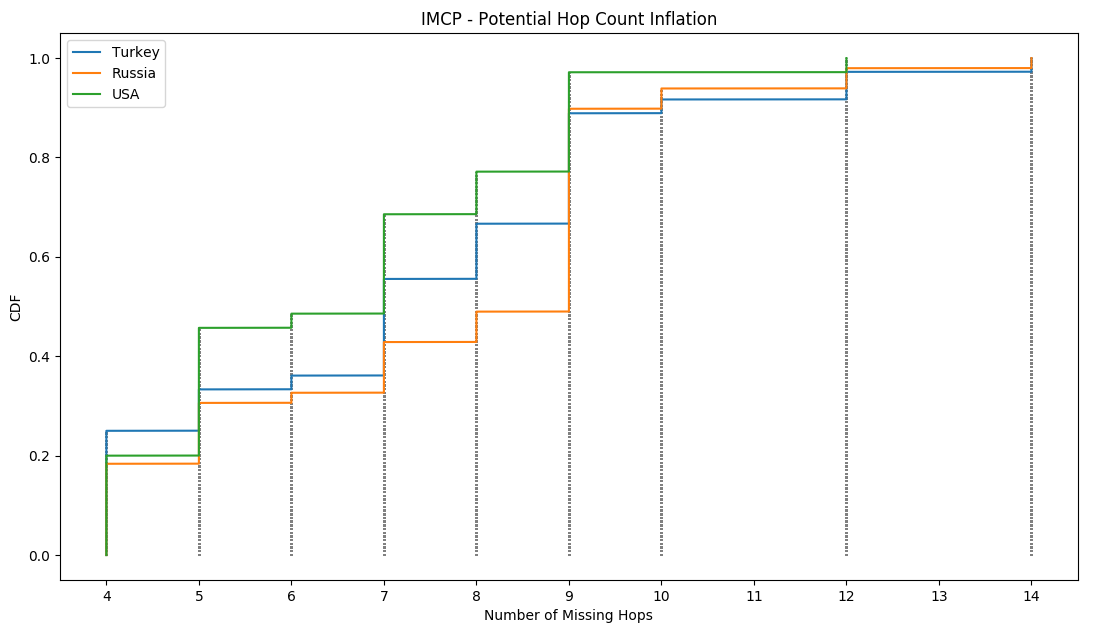
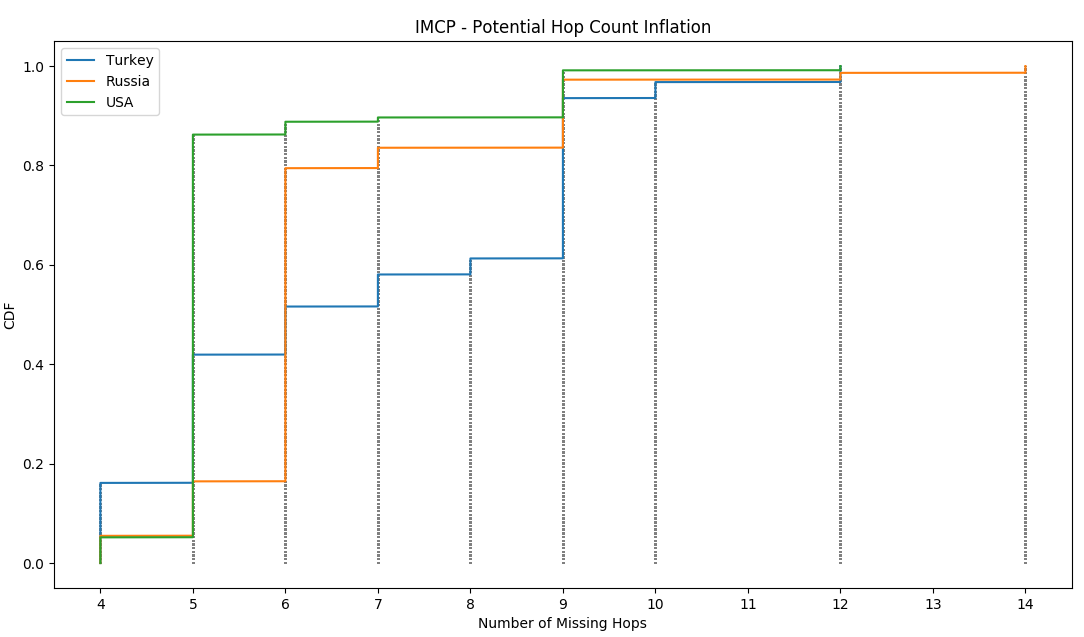
nameserver tables and graphs update

diff --git a/paper_latex/methodology.tex b/paper_latex/methodology.tex
@@ -180,9 +180,9 @@ From a high level view, the data shows that there were roughly half the number o
 While analyzing the IPs reachable from one or two vantage points, first major observation was that these IPs were reachable using traceroutes and not using ZMap. This is counter-intuitive because scamper's probes are under more restrictions compared to ZMap's probes (15 gap limit). The second major observation was that even for some cases even if the ICMP probes were not reaching the end host, the TCP probes were reaching the end host. Specifically in case of russian vantage point, in which the TCP packets were getting intercepted by a server close by (6th hop from the VP) and the ICMP probes were reaching on average thirteen hops before getting lost in the abyss. 
 
 \subsection{Inflated Paths - Missing hops}
-Figure~\ref{fig:inflated-path-cdf} shows the distribution of inflated paths for ICMP traceroutes that appear complete (we can reach server in question), but responses between hops are missing. The analysis has been carried on the list of webservers that were common for all vantage points.
+Figure~\ref{fig:inflated-path-cdf} shows the distribution of inflated paths for ICMP traceroutes that appear complete (we can reach server in question), but responses between hops are missing. The analysis has been carried on the list of nameservers that were common for all vantage points.
 
-The results significantly vary among the vantage points due to the differences in path length in reaching the same server. For example, if a webserver 'X' is 8 hops away from our vantage point in Russia and 12 hops away from our vantage point in USA. And an IDS is situated on path to the server which does not allow packets with lower than 14 ttl value to pass, then traceroute from Russia  will have 6 missing hops whereas traceroute from USA will have 2 missing hop, for the same webserver. This variance in path length is contributing towards the variation in CDF across vantage points.
+The results significantly vary among the vantage points due to the differences in path length in reaching the same server. For example, if a nameserver 'X' is 8 hops away from our vantage point in Russia and 12 hops away from our vantage point in USA. And an IDS is situated on path to the server which does not allow packets with lower than 14 ttl value to pass, then traceroute from Russia  will have 6 missing hops whereas traceroute from USA will have 2 missing hop, for the same nameserver. This variance in path length is contributing towards the variation in CDF across vantage points.
 
 
 \newpage
@@ -190,30 +190,29 @@ The results significantly vary among the vantage points due to the differences i
 \begin{table*}
 \small
 
-    \caption*{Started with a random sample of
-        Alexa 1000. Filtered down to the set that have the same webservers from all vantage points resulting in n = Y. Further filtered down the set of webservers for which the server in question replied, for all protocols, resulting in $Z_{i}$, specific to each vantage point.\\ \textit{Protocol A-Protocol B} column label represents the number of traceroutes which have same path length, in Y, for both protocol A and protocol B traceroutes for same webserver.\\ \textbf{Y=565}. The following tables are for 64 tll hop limit and 15 hop gap limit.}
-    \caption {Same Path Length}
+    \caption {Path Length Analysis}
     \begin{center}
 
-    \begin{tabular}{|l|r|r|r|r|} \hline
+    \begin{tabular}{|l|r|r|r|r|r|} \hline
         \multirow{2}*{Vantage Point} &
-        \multicolumn{4}{c|}{Common Webservers across VPs - Path Length Analysis (Y)}
-         \\ \cline{2-5}
-        & ICMP-TCP &
-          HTTP-TCP &
-          ICMP-HTTP &
-          ICMP-HTTP-TCP\\ \hline
+        \multicolumn{5}{c|}{Common Nameservers across VPs (Y)}
+         \\ \cline{2-6}
+        & Same Length &
+          One Hop Difference &
+          Two Hop Difference &
+          Three Hop Difference &
+          > Three Difference\\ \hline
                         
-        Russia ($Z_{r}$=340)
-        & 241 & 270 & 199 & 197   
+        Russia ($Z_{r}$=15)
+        & 15 & 0 & 0 & 0 & 0
              \\ \hline
 
-        Turkey ($Z_{t}$=345)
-        & 270 & 283 & 232 & 229 
+        Turkey ($Z_{t}$=15)
+        & 11 & 2 & 1 & 0 & 0
              \\ \hline
 
-        USA ($Z_{u}$=345) 
-        & 275 & 303 & 244 & 242 
+        USA ($Z_{u}$=15) 
+        & 10 & 4 & 1 & 0 & 0
              \\ \hline
 
     \end{tabular}
@@ -221,113 +220,115 @@ The results significantly vary among the vantage points due to the differences i
     \label{tab:samepathvalidation}
 
     \end{center}
+        \caption*{Started with a random sample of
+        Alexa 1000. Filtered down to the set that have the same nameservers from all vantage points resulting in n = Y. Further filtered down the set of nameservers for which the server in question replied, for both udp and icmp, resulting in $Z_{i}$, specific to each vantage point.\\ \textbf{Y=520}. The following tables are for 64 tll hop limit and 15 hop gap limit.\\ \textbf{495} common nameservers did not send a response for udp-traceroute.}
 \end{table*}
 
-\begin{table*}
-\small
-    \caption {One Hop Difference}
-    \begin{center}
+% \begin{table*}
+% \small
+%     \caption {One Hop Difference}
+%     \begin{center}
 
-    \begin{tabular}{|l|r|r|r|r|} \hline
-        \multirow{2}*{Vantage Point} &
-        \multicolumn{4}{c|}{Common Webservers across VPs - Path Length Analysis (Y)}
-         \\ \cline{2-5}
-        & ICMP-TCP &
-          HTTP-TCP &
-          ICMP-HTTP &
-          ICMP-HTTP-TCP\\\hline
+%     \begin{tabular}{|l|r|r|r|r|} \hline
+%         \multirow{2}*{Vantage Point} &
+%         \multicolumn{4}{c|}{Common Webservers across VPs - Path Length Analysis (Y)}
+%          \\ \cline{2-5}
+%         & ICMP-TCP &
+%           HTTP-TCP &
+%           ICMP-HTTP &
+%           ICMP-HTTP-TCP\\\hline
                         
-        Russia ($Z_{r}$=340)
-        & 34 & 22 & 42 & X
-             \\ \hline
+%         Russia ($Z_{r}$=340)
+%         & 34 & 22 & 42 & X
+%              \\ \hline
 
-        Turkey ($Z_{t}$=345)
-        & 43 & 15 & 39 & X
-             \\ \hline
+%         Turkey ($Z_{t}$=345)
+%         & 43 & 15 & 39 & X
+%              \\ \hline
 
-        USA ($Z_{u}$=345) 
-        & 50 & 18 & 60 & X
-             \\ \hline
-    \end{tabular}
-    \end{center}
-\end{table*}
+%         USA ($Z_{u}$=345) 
+%         & 50 & 18 & 60 & X
+%              \\ \hline
+%     \end{tabular}
+%     \end{center}
+% \end{table*}
 
-\begin{table*}
-\small
-    \caption {Two Hop Difference}
-    \begin{center}
+% \begin{table*}
+% \small
+%     \caption {Two Hop Difference}
+%     \begin{center}
 
-    \begin{tabular}{|l|r|r|r|r|} \hline
-        \multirow{2}*{Vantage Point} &
-        \multicolumn{4}{c|}{Common Webservers across VPs - Path Length Analysis (Y)}
-         \\ \cline{2-5}
-        & ICMP-TCP &
-          HTTP-TCP &
-          ICMP-HTTP &
-          ICMP-HTTP-TCP\\ \hline
+%     \begin{tabular}{|l|r|r|r|r|} \hline
+%         \multirow{2}*{Vantage Point} &
+%         \multicolumn{4}{c|}{Common Webservers across VPs - Path Length Analysis (Y)}
+%          \\ \cline{2-5}
+%         & ICMP-TCP &
+%           HTTP-TCP &
+%           ICMP-HTTP &
+%           ICMP-HTTP-TCP\\ \hline
                         
-        Russia ($Z_{r}$=340)
-        & 29 & 4 & 29 & X   
-             \\ \hline
+%         Russia ($Z_{r}$=340)
+%         & 29 & 4 & 29 & X   
+%              \\ \hline
 
-        Turkey ($Z_{t}$=345)
-        & 12 & 4 & 14 & X
-             \\ \hline
+%         Turkey ($Z_{t}$=345)
+%         & 12 & 4 & 14 & X
+%              \\ \hline
 
-        USA ($Z_{u}$=345) 
-        & 10 & 5 & 11 & X 
-             \\ \hline
+%         USA ($Z_{u}$=345) 
+%         & 10 & 5 & 11 & X 
+%              \\ \hline
 
-    \end{tabular}
-    \end{center}
-\end{table*}
+%     \end{tabular}
+%     \end{center}
+% \end{table*}
 
-\begin{table*}
-\small
-    \caption {Three Hop Difference}
-    \begin{center}
+% \begin{table*}
+% \small
+%     \caption {Three Hop Difference}
+%     \begin{center}
 
-    \begin{tabular}{|l|r|r|r|r|} \hline
-        \multirow{2}*{Vantage Point} &
-        \multicolumn{4}{c|}{Common Webservers across VPs - Path Length Analysis (Y)}
-         \\ \cline{2-5}
-        & ICMP-TCP &
-          HTTP-TCP &
-          ICMP-HTTP &
-          ICMP-HTTP-TCP\\ \hline
+%     \begin{tabular}{|l|r|r|r|r|} \hline
+%         \multirow{2}*{Vantage Point} &
+%         \multicolumn{4}{c|}{Common Webservers across VPs - Path Length Analysis (Y)}
+%          \\ \cline{2-5}
+%         & ICMP-TCP &
+%           HTTP-TCP &
+%           ICMP-HTTP &
+%           ICMP-HTTP-TCP\\ \hline
                         
-        Russia ($Z_{r}$=340)
-        & 20 & 1 & 16 & X   
-             \\ \hline
+%         Russia ($Z_{r}$=340)
+%         & 20 & 1 & 16 & X   
+%              \\ \hline
 
-        Turkey ($Z_{t}$=345)
-        & 6 & 1 & 5 & X
-             \\ \hline
+%         Turkey ($Z_{t}$=345)
+%         & 6 & 1 & 5 & X
+%              \\ \hline
 
-        USA ($Z_{u}$=345) 
-        & 2 & 0 & 3 & X 
-             \\ \hline
+%         USA ($Z_{u}$=345) 
+%         & 2 & 0 & 3 & X 
+%              \\ \hline
 
-    \end{tabular}
-    \end{center}
-\end{table*}
+%     \end{tabular}
+%     \end{center}
+% \end{table*}
 
 
 \begin{figure*}[!h]
 \centering
   \includegraphics[width=\linewidth]{figures/missing-hops-cdf.png}
-  \caption{Distribution of path length inflation at \textit{n} non-responding hops for 565 common webservers across all vantage points. Following is the breakdown of number of webservers for each vantage point:}
+  \caption{Distribution of path length inflation at \textit{n} non-responding hops for 520 common nameservers across all vantage points. Following is the breakdown of number of nameservers for each vantage point:}
   \label{fig:inflated-path-cdf}
   
-  US = 35\\
-  Turkey = 36\\
-  Russia = 49\\
+  US = 116\\
+  Turkey = 31\\
+  Russia = 73\\
   
 \end{figure*}
 
 \begin{figure*}[!h]
 \centering
   \includegraphics[width=\linewidth]{figures/missing-hops-bar.png}
-  \caption{Bar plot of path length inflation in ICMP traceroutes for 565 common webservers across all vantage points. The x-axis represents the number of consecutive non-responding hops \textit{n} and the y-axis shows the frequency of ICMP-traceroutes which have those \textit{n} length non-responding hops.}
+  \caption{Bar plot of path length inflation in ICMP traceroutes for 520 common nameservers across all vantage points. The x-axis represents the number of consecutive non-responding hops \textit{n} and the y-axis shows the frequency of ICMP-traceroutes which have those \textit{n} length non-responding hops.}
   \label{fig:inflated-path-bar}
 \end{figure*}
